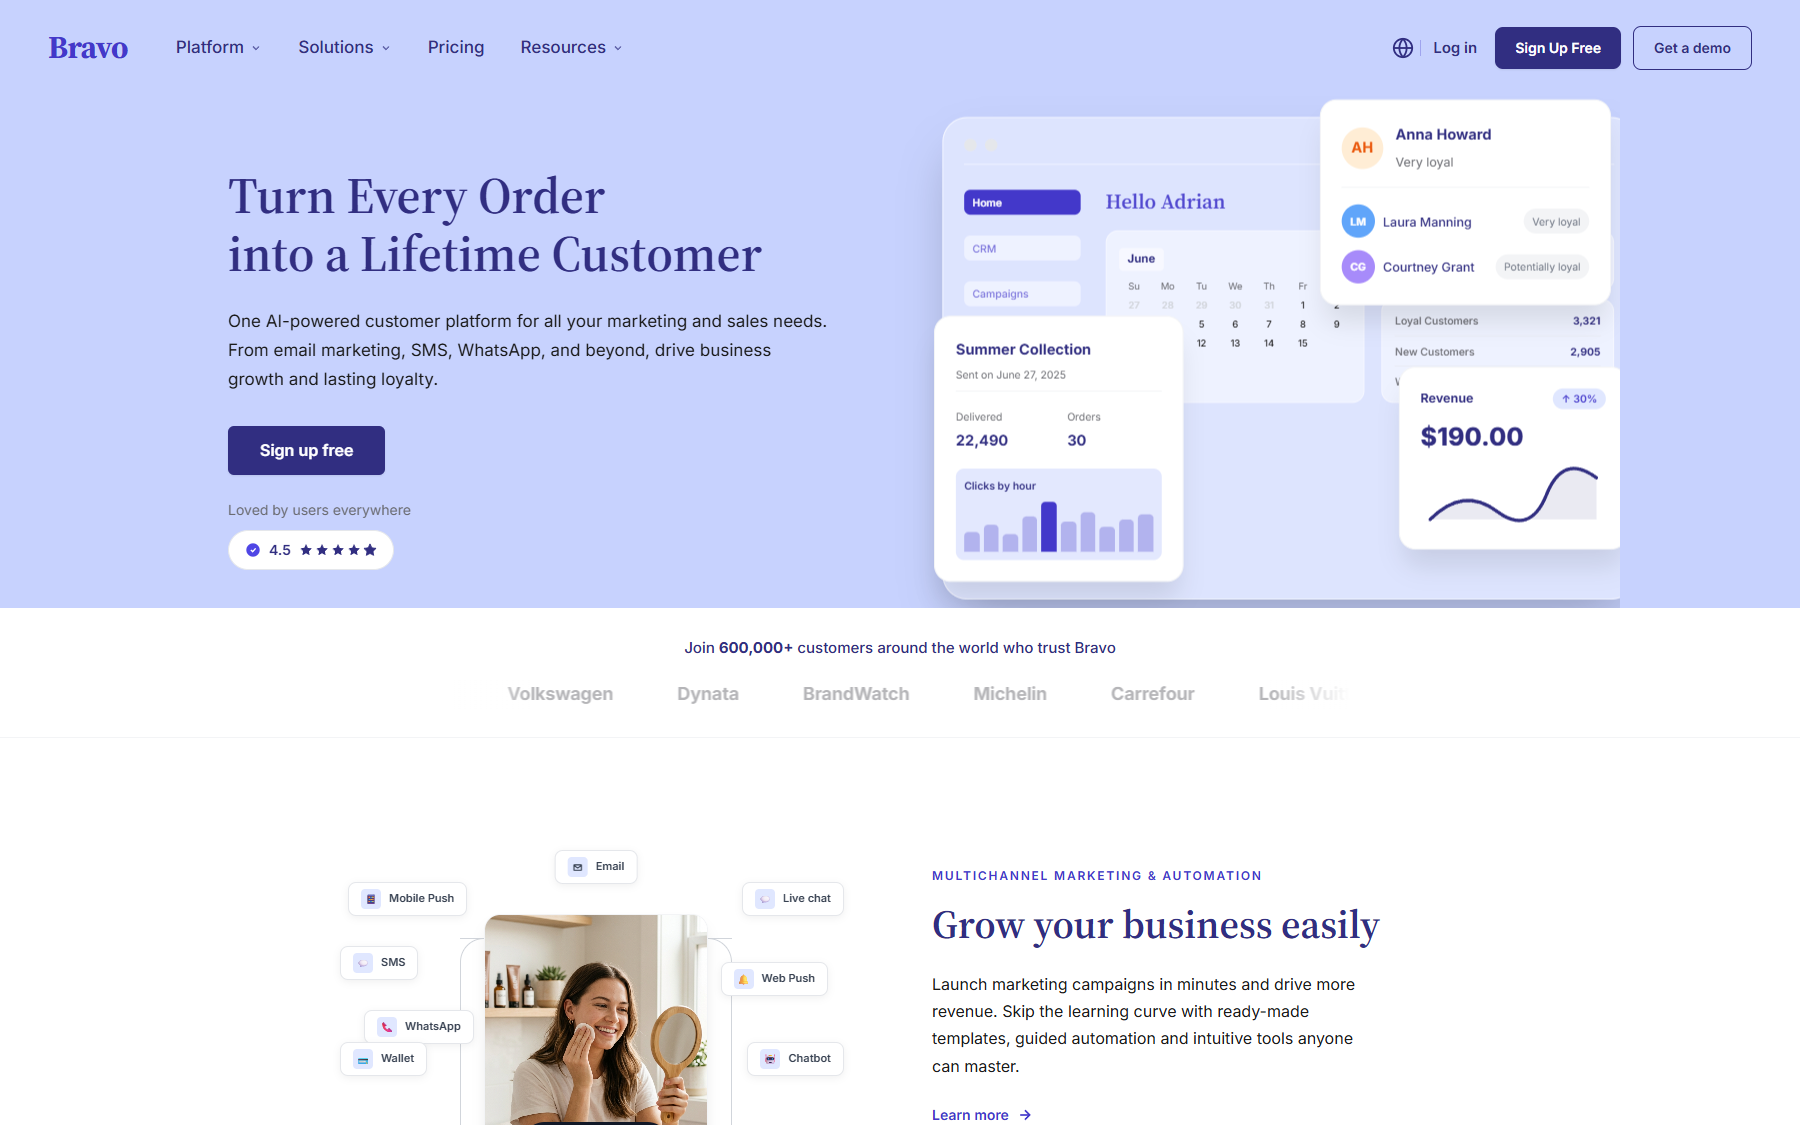
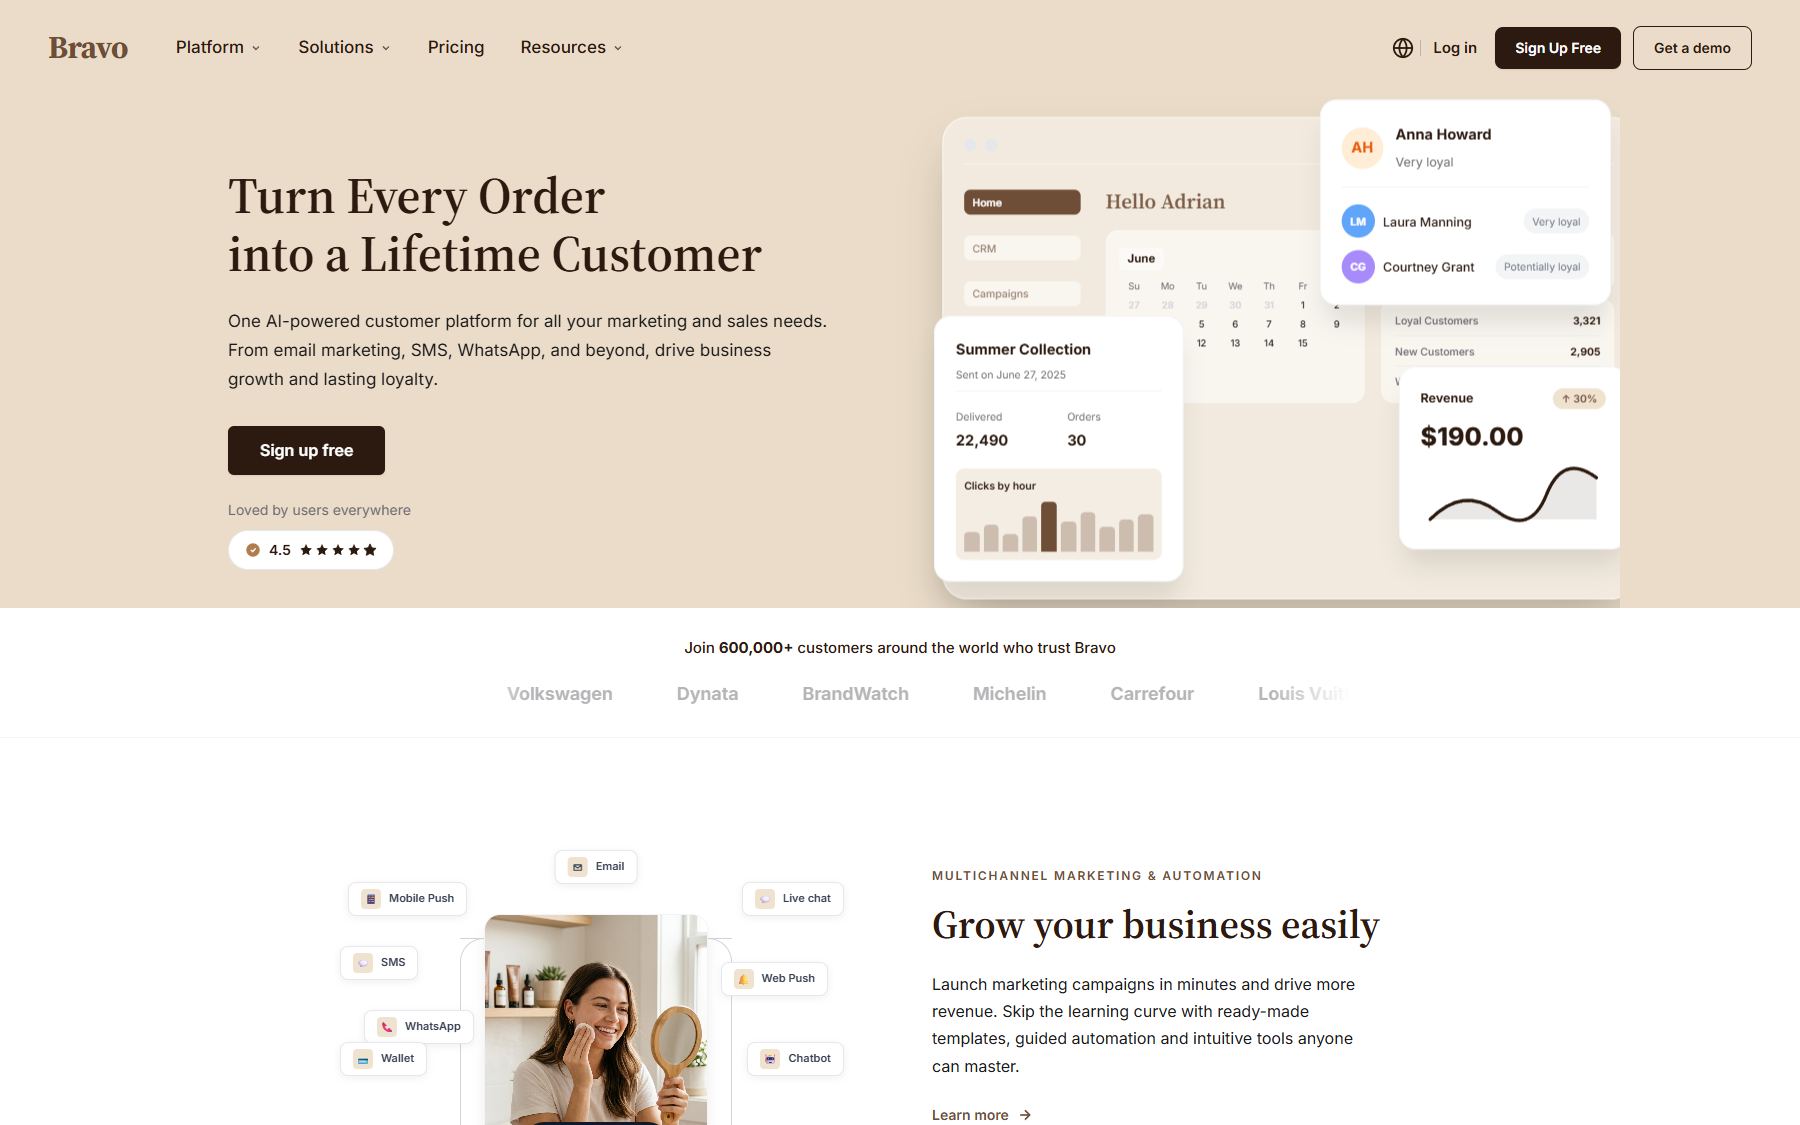
Bravo: switch palette to premium coffee brown

diff --git a/templates/bravo.html b/templates/bravo.html
@@ -10,14 +10,14 @@
 <link href="https://fonts.googleapis.com/css2?family=Source+Serif+4:opsz,wght@8..60,400;8..60,600;8..60,700&family=Inter:wght@400;500;600;700;800&display=swap" rel="stylesheet">
 <style>
   :root{
-    --green:#4338CA;
-    --green-hover:#312E81;
-    --mint:#C7D2FE;
-    --mint-light:#EEF2FF;
-    --dark:#312E81;
+    --green:#6F4E37;
+    --green-hover:#2C1A10;
+    --mint:#EADCC8;
+    --mint-light:#F7F1E8;
+    --dark:#2C1A10;
     --body:#1B1B1B;
     --muted:#6B6C72;
-    --line:rgba(67,56,202,.12);
+    --line:rgba(111,78,55,.12);
     --serif:'Source Serif 4',Georgia,serif;
     --sans:'Inter',system-ui,sans-serif;
     --ease:cubic-bezier(.4,0,.2,1);
@@ -38,7 +38,7 @@
   .btn-dark{display:inline-flex;align-items:center;justify-content:center;gap:8px;background:var(--dark);color:#fff;font-weight:600;font-size:16px;padding:12px 32px;border-radius:6px;transition:.2s;box-shadow:0 1px 2px rgba(0,0,0,.08)}
   .btn-dark:hover{background:var(--green)}
   .btn-outline{display:inline-flex;align-items:center;justify-content:center;gap:8px;color:var(--dark);font-weight:600;font-size:16px;padding:12px 32px;border-radius:6px;border:1px solid var(--dark);transition:.2s}
-  .btn-outline:hover{background:rgba(67,56,202,.05)}
+  .btn-outline:hover{background:rgba(111,78,55,.05)}
 
   /* ---------- SCROLL REVEAL ---------- */
   .reveal{opacity:0;transform:translateY(20px);transition:opacity .6s var(--ease),transform .6s var(--ease)}
@@ -59,7 +59,7 @@
   .nav__right{display:flex;align-items:center;gap:12px}
   .nav__login{display:flex;align-items:center;gap:6px}
   .nav__login .globe{width:22px;height:22px;color:var(--dark)}
-  .nav__login .div{width:1px;height:16px;background:rgba(67,56,202,.3)}
+  .nav__login .div{width:1px;height:16px;background:rgba(111,78,55,.3)}
   .nav__login a{font-size:15px;font-weight:600;color:var(--dark);padding:8px 6px}
   .nav__login a:hover{color:var(--green)}
   .nav .btn-dark,.nav .btn-outline{font-size:14px;padding:10px 20px;border-radius:8px}
@@ -104,10 +104,10 @@
   .win__bar i{width:12px;height:12px;border-radius:50%;background:#e5e7eb}
   .win__body{display:flex;gap:24px}
   .win__side{width:112px;display:grid;gap:16px}
-  .win__side div{height:24px;border-radius:6px;background:rgba(255,255,255,.5);display:flex;align-items:center;padding:0 8px;font-size:10px;font-weight:500;color:rgba(67,56,202,.7)}
+  .win__side div{height:24px;border-radius:6px;background:rgba(255,255,255,.5);display:flex;align-items:center;padding:0 8px;font-size:10px;font-weight:500;color:rgba(111,78,55,.7)}
   .win__side div.on{background:var(--green);color:#fff}
   .win__main{flex:1;display:flex;flex-direction:column;gap:16px}
-  .win__main h3{font-family:var(--serif);font-size:20px;color:rgba(67,56,202,.9)}
+  .win__main h3{font-family:var(--serif);font-size:20px;color:rgba(111,78,55,.9)}
   .cal{flex:1;background:rgba(255,255,255,.5);border:1px solid rgba(255,255,255,.4);border-radius:12px;padding:12px}
   .cal .m{display:inline-block;font-size:11px;font-weight:700;color:var(--dark);background:rgba(255,255,255,.5);padding:2px 8px;border-radius:4px;margin-bottom:8px}
   .cal .d{display:grid;grid-template-columns:repeat(7,1fr);gap:4px;font-size:9px;text-align:center;color:var(--muted);margin-bottom:4px}
@@ -116,7 +116,7 @@
   .cal .n .off{color:#d1d5db}
   .stat{display:flex;align-items:center;gap:12px;background:rgba(255,255,255,.5);border:1px solid rgba(255,255,255,.4);border-radius:12px;padding:12px}
   .stat .ic{width:32px;height:32px;border-radius:8px;background:#dbeafe;display:grid;place-items:center}
-  .stat .v{font-size:18px;font-weight:700;color:rgba(67,56,202,.9);line-height:1.1}
+  .stat .v{font-size:18px;font-weight:700;color:rgba(111,78,55,.9);line-height:1.1}
   .stat .l{font-size:9px;color:var(--muted)}
   .list{background:rgba(255,255,255,.5);border:1px solid rgba(255,255,255,.4);border-radius:12px;padding:12px;flex:1}
   .list .row{display:flex;justify-content:space-between;font-size:10px;padding-bottom:6px;margin-bottom:6px;border-bottom:1px solid rgba(229,231,235,.5)}
@@ -142,14 +142,14 @@
   .grid2{display:grid;grid-template-columns:1fr 1fr;gap:16px;margin-bottom:16px}
   .grid2 .k{font-size:10px;color:var(--muted);margin-bottom:4px}
   .grid2 .v{font-size:14px;font-weight:700;color:var(--dark)}
-  .bar-box{background:rgba(199,210,254,.5);padding:8px;border-radius:8px}
+  .bar-box{background:rgba(234,220,200,.5);padding:8px;border-radius:8px}
   .bar-box .lb{font-size:10px;font-weight:600;color:var(--dark);margin-bottom:8px}
   .bars{display:flex;gap:4px;height:48px;align-items:flex-end}
-  .bars i{flex:1;border-radius:4px 4px 0 0;background:rgba(67,56,202,.3)}
+  .bars i{flex:1;border-radius:4px 4px 0 0;background:rgba(111,78,55,.3)}
   .bars i.hi{background:var(--green)}
   .card--rev .top{display:flex;justify-content:space-between;align-items:flex-start;margin-bottom:8px}
   .card--rev .top b{font-size:12px;font-weight:700;color:var(--dark)}
-  .pill-up{font-size:10px;background:#E0E7FF;color:#4338CA;padding:2px 8px;border-radius:999px;font-weight:600}
+  .pill-up{font-size:10px;background:#EFE2CF;color:#6F4E37;padding:2px 8px;border-radius:999px;font-weight:600}
   .card--rev .big{font-size:24px;font-weight:900;color:var(--dark);margin-bottom:12px}
 
   @keyframes float{0%,100%{transform:translateY(0)}50%{transform:translateY(-10px)}}
@@ -190,7 +190,7 @@
   .phone .in .s{font-family:var(--serif);color:#111;font-size:15px;line-height:1.3}
   .phone .in .off{background:#111;color:#fff;font-size:8px;font-weight:700;padding:4px 10px;border-radius:4px;margin-top:10px;display:inline-block}
   .chip{position:absolute;background:#fff;border:1px solid #e5e7eb;border-radius:8px;padding:6px 12px;display:flex;align-items:center;gap:8px;font-size:11px;font-weight:600;color:#374151;box-shadow:0 2px 8px rgba(0,0,0,.06);z-index:20}
-  .chip .ic{width:20px;height:20px;background:#E0E7FF;border-radius:4px;display:grid;place-items:center;font-size:10px}
+  .chip .ic{width:20px;height:20px;background:#EFE2CF;border-radius:4px;display:grid;place-items:center;font-size:10px}
   .line{position:absolute;width:50%;height:50%;z-index:0;pointer-events:none}
   .line.tl{top:25%;left:25%;border-top:1px solid #d1d5db;border-left:1px solid #d1d5db;border-top-left-radius:24px}
   .line.tr{top:25%;right:25%;border-top:1px solid #d1d5db;border-right:1px solid #d1d5db;border-top-right-radius:24px}
@@ -211,11 +211,11 @@
   .ecard .v{flex:1;position:relative;display:grid;place-items:center}
   .sq{width:80px;height:80px;border-radius:24px;display:grid;place-items:center;font-size:34px}
   .sq.purple{background:#e8e2f4;border:2px solid #d0c6e1}
-  .sq.wa{background:#4F46E5;border-radius:28px}
+  .sq.wa{background:#B07D4F;border-radius:28px}
   .mini{background:#fff;border:1px solid #e5e7eb;border-radius:12px;padding:8px;width:160px;display:flex;gap:8px;align-items:center;box-shadow:0 2px 8px rgba(0,0,0,.05)}
   .mini .b{width:32px;height:32px;border-radius:6px;background:#e8e2f4;display:grid;place-items:center;font-weight:700;color:#6d28d9;font-size:14px}
   .mini .ln{height:6px;border-radius:4px;background:#f3f4f6;margin-bottom:4px}
-  .bell{position:absolute;width:32px;height:32px;background:#C7D2FE;border:2px solid #fff;border-radius:50%;display:grid;place-items:center;box-shadow:0 4px 10px rgba(0,0,0,.12);color:var(--dark)}
+  .bell{position:absolute;width:32px;height:32px;background:#EADCC8;border:2px solid #fff;border-radius:50%;display:grid;place-items:center;box-shadow:0 4px 10px rgba(0,0,0,.12);color:var(--dark)}
 
   /* ai agents */
   .agents{display:grid;grid-template-columns:1fr 1fr;gap:64px;align-items:start}
@@ -245,7 +245,7 @@
   .tabs{display:flex;justify-content:center;margin-bottom:64px}
   .tabs__in{display:inline-flex;background:#f9fafb;border:1px solid #f3f4f6;border-radius:999px;padding:4px;box-shadow:0 1px 2px rgba(0,0,0,.04)}
   .tabs button{padding:10px 24px;border-radius:999px;font-size:14px;font-weight:600;color:var(--dark);transition:.3s}
-  .tabs button.on{background:#C7D2FE;color:#312E81;box-shadow:0 1px 2px rgba(0,0,0,.06)}
+  .tabs button.on{background:#EADCC8;color:#2C1A10;box-shadow:0 1px 2px rgba(0,0,0,.06)}
   .biz{display:grid;grid-template-columns:1fr 1fr;gap:64px;align-items:center}
   .biz .badge{color:var(--green);font-weight:700;font-size:12px;text-transform:uppercase;letter-spacing:.05em;margin-bottom:24px}
   .biz h3{font-size:clamp(28px,2.5rem,40px);margin-bottom:16px}
@@ -273,18 +273,18 @@
   .story .img .ov{position:absolute;inset:0;background:rgba(0,0,0,.35);display:grid;place-items:center;padding:24px}
   .story .img .lg{color:#fff;font-weight:800;font-size:20px;letter-spacing:.02em}
   .story .bd{padding:32px;display:flex;flex-direction:column;flex:1;gap:16px}
-  .story .badge{background:#C7D2FE;color:#312E81;font-weight:700;font-size:10px;text-transform:uppercase;letter-spacing:.05em;border-radius:999px;padding:4px 12px;width:fit-content}
+  .story .badge{background:#EADCC8;color:#2C1A10;font-weight:700;font-size:10px;text-transform:uppercase;letter-spacing:.05em;border-radius:999px;padding:4px 12px;width:fit-content}
   .story h3{font-size:20px;line-height:1.3}
   .story p{color:var(--body);font-size:14px;line-height:1.7;flex:1}
 
   /* integrations */
-  .integrations{background:#EEF2FF;border-radius:40px 40px 0 0;padding:64px 0 48px;overflow:hidden;text-align:center}
+  .integrations{background:#F7F1E8;border-radius:40px 40px 0 0;padding:64px 0 48px;overflow:hidden;text-align:center}
   .integrations h2{font-size:clamp(28px,2.5rem,40px);margin-bottom:16px}
   .integrations .sub{color:var(--body);font-size:16px;margin-bottom:48px}
   .int-ticker{position:relative;padding:16px 0;margin-bottom:40px}
   .int-ticker::before,.int-ticker::after{content:"";position:absolute;top:0;bottom:0;width:128px;z-index:10;pointer-events:none}
-  .int-ticker::before{left:0;background:linear-gradient(90deg,#EEF2FF,transparent)}
-  .int-ticker::after{right:0;background:linear-gradient(270deg,#EEF2FF,transparent)}
+  .int-ticker::before{left:0;background:linear-gradient(90deg,#F7F1E8,transparent)}
+  .int-ticker::after{right:0;background:linear-gradient(270deg,#F7F1E8,transparent)}
   .int-ticker .in{display:flex;gap:80px;width:max-content;animation:tick 30s linear infinite;align-items:center}
   .int-ticker .lg{font-weight:800;font-size:18px;color:#4b5563;opacity:.7;white-space:nowrap}
   .integrations .lnk{color:var(--green);font-weight:600;font-size:16px}
@@ -448,14 +448,14 @@
       <div class="rate">
         <p>Loved by users everywhere</p>
         <div class="stars">
-          <svg viewBox="0 0 24 24" width="16" height="16" fill="#4F46E5"><circle cx="12" cy="12" r="10"/><path d="M9 12l2.5 2.5L16 9.5" fill="none" stroke="#fff" stroke-width="2"/></svg>
+          <svg viewBox="0 0 24 24" width="16" height="16" fill="#B07D4F"><circle cx="12" cy="12" r="10"/><path d="M9 12l2.5 2.5L16 9.5" fill="none" stroke="#fff" stroke-width="2"/></svg>
           <b>4.5</b>
           <span class="s">
             <svg viewBox="0 0 24 24"><polygon points="12 2 15.09 8.26 22 9.27 17 14.14 18.18 21.02 12 17.77 5.82 21.02 7 14.14 2 9.27 8.91 8.26 12 2"/></svg>
             <svg viewBox="0 0 24 24"><polygon points="12 2 15.09 8.26 22 9.27 17 14.14 18.18 21.02 12 17.77 5.82 21.02 7 14.14 2 9.27 8.91 8.26 12 2"/></svg>
             <svg viewBox="0 0 24 24"><polygon points="12 2 15.09 8.26 22 9.27 17 14.14 18.18 21.02 12 17.77 5.82 21.02 7 14.14 2 9.27 8.91 8.26 12 2"/></svg>
             <svg viewBox="0 0 24 24"><polygon points="12 2 15.09 8.26 22 9.27 17 14.14 18.18 21.02 12 17.77 5.82 21.02 7 14.14 2 9.27 8.91 8.26 12 2"/></svg>
-            <svg viewBox="0 0 24 24" fill="none" stroke="#312E81" stroke-width="1.5"><polygon points="12 2 15.09 8.26 22 9.27 17 14.14 18.18 21.02 12 17.77 5.82 21.02 7 14.14 2 9.27 8.91 8.26 12 2"/></svg>
+            <svg viewBox="0 0 24 24" fill="none" stroke="#2C1A10" stroke-width="1.5"><polygon points="12 2 15.09 8.26 22 9.27 17 14.14 18.18 21.02 12 17.77 5.82 21.02 7 14.14 2 9.27 8.91 8.26 12 2"/></svg>
           </span>
         </div>
       </div>
@@ -511,8 +511,8 @@
         <div class="top"><b>Revenue</b><span class="pill-up">↑ 30%</span></div>
         <div class="big">$190.00</div>
         <svg viewBox="0 0 100 30" style="width:100%;height:48px;overflow:visible">
-          <path d="M0 30 Q 20 10, 40 25 T 70 15 T 100 5" fill="none" stroke="#312E81" stroke-width="2" stroke-linecap="round"/>
-          <path d="M0 30 Q 20 10, 40 25 T 70 15 T 100 5 L 100 30 L 0 30 Z" fill="rgba(49,46,129,0.1)"/>
+          <path d="M0 30 Q 20 10, 40 25 T 70 15 T 100 5" fill="none" stroke="#2C1A10" stroke-width="2" stroke-linecap="round"/>
+          <path d="M0 30 Q 20 10, 40 25 T 70 15 T 100 5 L 100 30 L 0 30 Z" fill="rgba(44,26,16,0.1)"/>
         </svg>
       </div>
     </div>
@@ -637,9 +637,9 @@ notifications</h3><div class="v" style="flex-direction:column;gap:12px"><div cla
       <div class="ecard"><h3>Mobile Wallet</h3><div class="v"><div style="width:160px;height:112px;background:#e8e2f4;border:2px solid #d0c6e1;border-radius:16px;padding:12px"><div style="font-size:10px;font-weight:700;margin-bottom:8px">Your loyalty card</div><div style="height:8px;width:66%;background:#d0c6e1;border-radius:4px;margin-bottom:4px"></div><div style="height:8px;width:50%;background:#d0c6e1;border-radius:4px"></div></div></div></div>
       <div class="ecard"><h3>Transactional
 messaging</h3><div class="v" style="gap:12px"><div class="sq purple" style="width:56px;height:48px;border-radius:8px;font-size:20px">✉</div><div class="sq purple" style="width:56px;height:48px;border-radius:8px;font-size:20px">💬</div></div></div>
-      <div class="ecard"><h3>VoIP Phone</h3><div class="v"><div style="width:112px;height:160px;background:#fff;border:2px solid #e5e7eb;border-radius:16px;padding:12px"><div style="height:24px;border:1px solid #C7D2FE;background:#EEF2FF;border-radius:999px;display:grid;place-items:center;font-size:9px;color:var(--green);font-weight:700;margin-bottom:12px">+15128373772</div><div style="display:grid;grid-template-columns:repeat(3,1fr);gap:8px;font-size:10px;color:#6b7280;text-align:center"><span>1</span><span>2</span><span>3</span><span>4</span><span>5</span><span>6</span><span>7</span><span>8</span><span>9</span></div></div></div></div>
-      <div class="ecard"><h3>Live chat</h3><div class="v" style="flex-direction:column;gap:10px"><div class="mini" style="width:144px"><span class="b" style="background:#C7D2FE;color:var(--green)">B</span><span style="flex:1"><span class="ln" style="display:block"></span><span class="ln" style="display:block;width:66%"></span></span></div><div class="mini" style="width:128px"><span class="b" style="background:#f3e8ff;color:#7c3aed;border-radius:50%">👤</span><span style="flex:1"><span class="ln" style="display:block"></span><span class="ln" style="display:block;width:50%"></span></span></div></div></div>
-      <div class="ecard"><h3>Chatbot</h3><div class="v"><div style="width:160px;background:#fff;border:2px solid #e5e7eb;border-radius:16px;overflow:hidden"><div style="height:24px;background:#f9fafb;border-bottom:1px solid #e5e7eb;display:flex;align-items:center;padding:0 12px;gap:6px"><i style="width:8px;height:8px;border-radius:50%;background:#d1d5db"></i></div><div style="padding:12px;display:flex;gap:8px"><span class="b" style="background:#C7D2FE;color:var(--green)">B</span><span style="flex:1"><span style="display:block;font-size:9px;font-weight:500;margin-bottom:6px">How can I help you?</span><span class="ln" style="display:block"></span><span class="ln" style="display:block;width:66%"></span></span></div></div></div></div>
+      <div class="ecard"><h3>VoIP Phone</h3><div class="v"><div style="width:112px;height:160px;background:#fff;border:2px solid #e5e7eb;border-radius:16px;padding:12px"><div style="height:24px;border:1px solid #EADCC8;background:#F7F1E8;border-radius:999px;display:grid;place-items:center;font-size:9px;color:var(--green);font-weight:700;margin-bottom:12px">+15128373772</div><div style="display:grid;grid-template-columns:repeat(3,1fr);gap:8px;font-size:10px;color:#6b7280;text-align:center"><span>1</span><span>2</span><span>3</span><span>4</span><span>5</span><span>6</span><span>7</span><span>8</span><span>9</span></div></div></div></div>
+      <div class="ecard"><h3>Live chat</h3><div class="v" style="flex-direction:column;gap:10px"><div class="mini" style="width:144px"><span class="b" style="background:#EADCC8;color:var(--green)">B</span><span style="flex:1"><span class="ln" style="display:block"></span><span class="ln" style="display:block;width:66%"></span></span></div><div class="mini" style="width:128px"><span class="b" style="background:#f3e8ff;color:#7c3aed;border-radius:50%">👤</span><span style="flex:1"><span class="ln" style="display:block"></span><span class="ln" style="display:block;width:50%"></span></span></div></div></div>
+      <div class="ecard"><h3>Chatbot</h3><div class="v"><div style="width:160px;background:#fff;border:2px solid #e5e7eb;border-radius:16px;overflow:hidden"><div style="height:24px;background:#f9fafb;border-bottom:1px solid #e5e7eb;display:flex;align-items:center;padding:0 12px;gap:6px"><i style="width:8px;height:8px;border-radius:50%;background:#d1d5db"></i></div><div style="padding:12px;display:flex;gap:8px"><span class="b" style="background:#EADCC8;color:var(--green)">B</span><span style="flex:1"><span style="display:block;font-size:9px;font-weight:500;margin-bottom:6px">How can I help you?</span><span class="ln" style="display:block"></span><span class="ln" style="display:block;width:66%"></span></span></div></div></div></div>
       <div class="ecard"><h3>Meetings</h3><div class="v"><div style="width:128px;height:128px;background:#e6cfb8;border:2px solid #fed7aa;border-radius:16px;display:grid;place-items:center;font-size:56px">👩🏽🦱</div></div></div>
     </div>
   </div>
@@ -677,7 +677,7 @@ messaging</h3><div class="v" style="gap:12px"><div class="sq purple" style="widt
         <div class="v">
           <div class="chatwin">
             <div style="display:flex;gap:8px;align-items:center;margin-bottom:12px">
-              <svg width="16" height="16" viewBox="0 0 24 24" fill="#4F46E5"><circle cx="12" cy="12" r="10"/><path d="M9 12l2.5 2.5L16 9.5" fill="none" stroke="#fff" stroke-width="2"/></svg>
+              <svg width="16" height="16" viewBox="0 0 24 24" fill="#B07D4F"><circle cx="12" cy="12" r="10"/><path d="M9 12l2.5 2.5L16 9.5" fill="none" stroke="#fff" stroke-width="2"/></svg>
               <span style="font-size:12px;font-weight:500;color:var(--dark)">Your contact data has been enriched</span>
             </div>
             <div style="font-size:10px;color:var(--muted);margin-bottom:8px">◆ I found the following details:</div>
